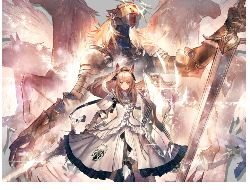
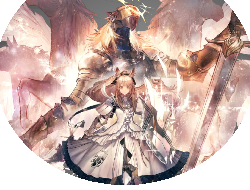
修改：瑕光微明图片；血刃召唤位置

diff --git a/src/main/java/nearlmod/relics/BloodEntangle.java b/src/main/java/nearlmod/relics/BloodEntangle.java
@@ -31,10 +31,12 @@ public class BloodEntangle extends CustomRelic {
     
     @Override
     public void atBattleStart() {
-        float leftX = 100.0F;
+        float leftX = 1000.0F;
         for (AbstractMonster ms : AbstractDungeon.getCurrRoom().monsters.monsters)
-            leftX = Math.min(leftX, (ms.drawX - Settings.WIDTH * 0.75F) / Settings.xScale);
-        addToTop(new SpawnMonsterAction(new BloodBlade(leftX - 100.0F, 0.0F), false));
+            if (!ms.isDeadOrEscaped()) {
+                leftX = Math.min(leftX, (ms.hb.x - Settings.WIDTH * 0.75F) / Settings.xScale);
+            }
+        addToTop(new SpawnMonsterAction(new BloodBlade(leftX - 70.0F, 0.0F), false));
     }
     
     @Override
